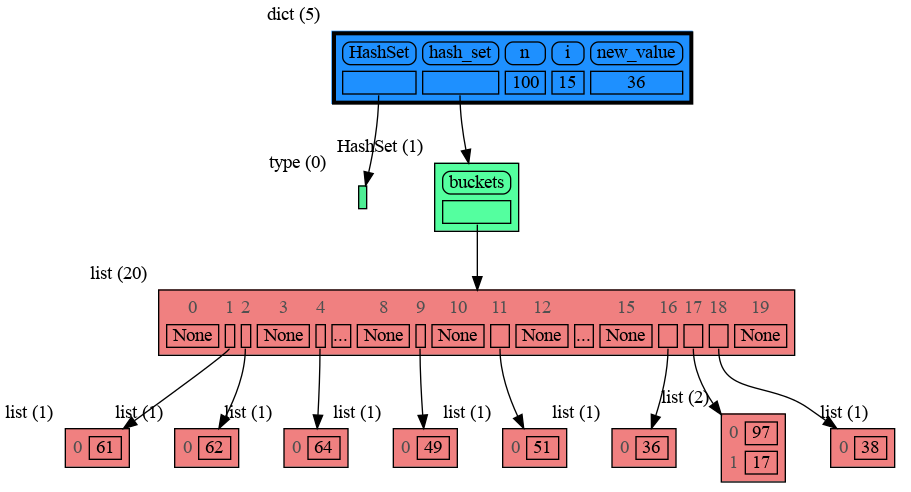
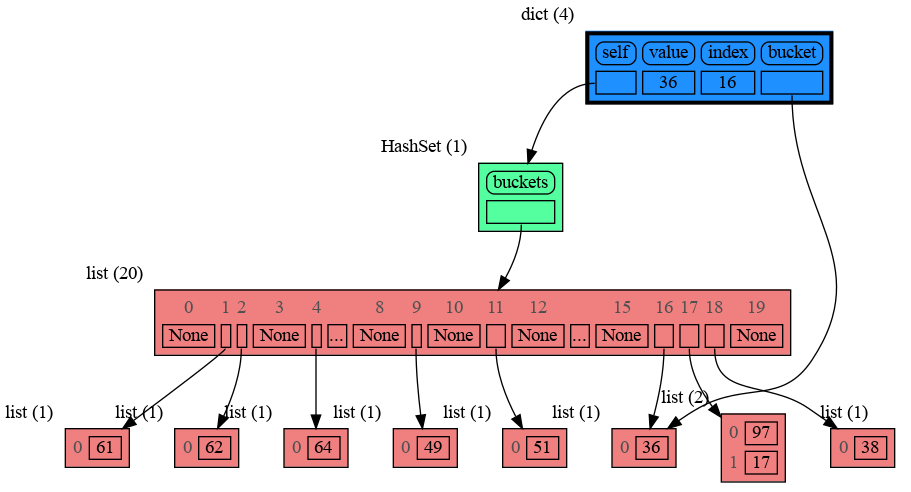
hash_set.py now has a reference to bucket

diff --git a/images/hash_set.py b/images/hash_set.py
@@ -10,10 +10,13 @@ class HashSet:
         def add(self, value):
             index = hash(value) % len(self.buckets)
             if self.buckets[index] is None:
-                self.buckets[index] = [value]
-            else:
-                self.buckets[index].append(value)
-
+                self.buckets[index] = []
+            bucket = self.buckets[index]
+            bucket.append(value)
+            if value == 36:
+                memory_graph.render(locals(), "hash_set.png")
+                exit()
+        
         def contains(self, value):
             index = hash(value) % len(self.buckets)
             if self.buckets[index] is None:
@@ -30,6 +33,3 @@ n = 100
 for i in range(n):
     new_value = random.randrange(n)
     hash_set.add(new_value)
-    if new_value == 36:
-        memory_graph.render(locals(), "hash_set.png")
-        exit()
